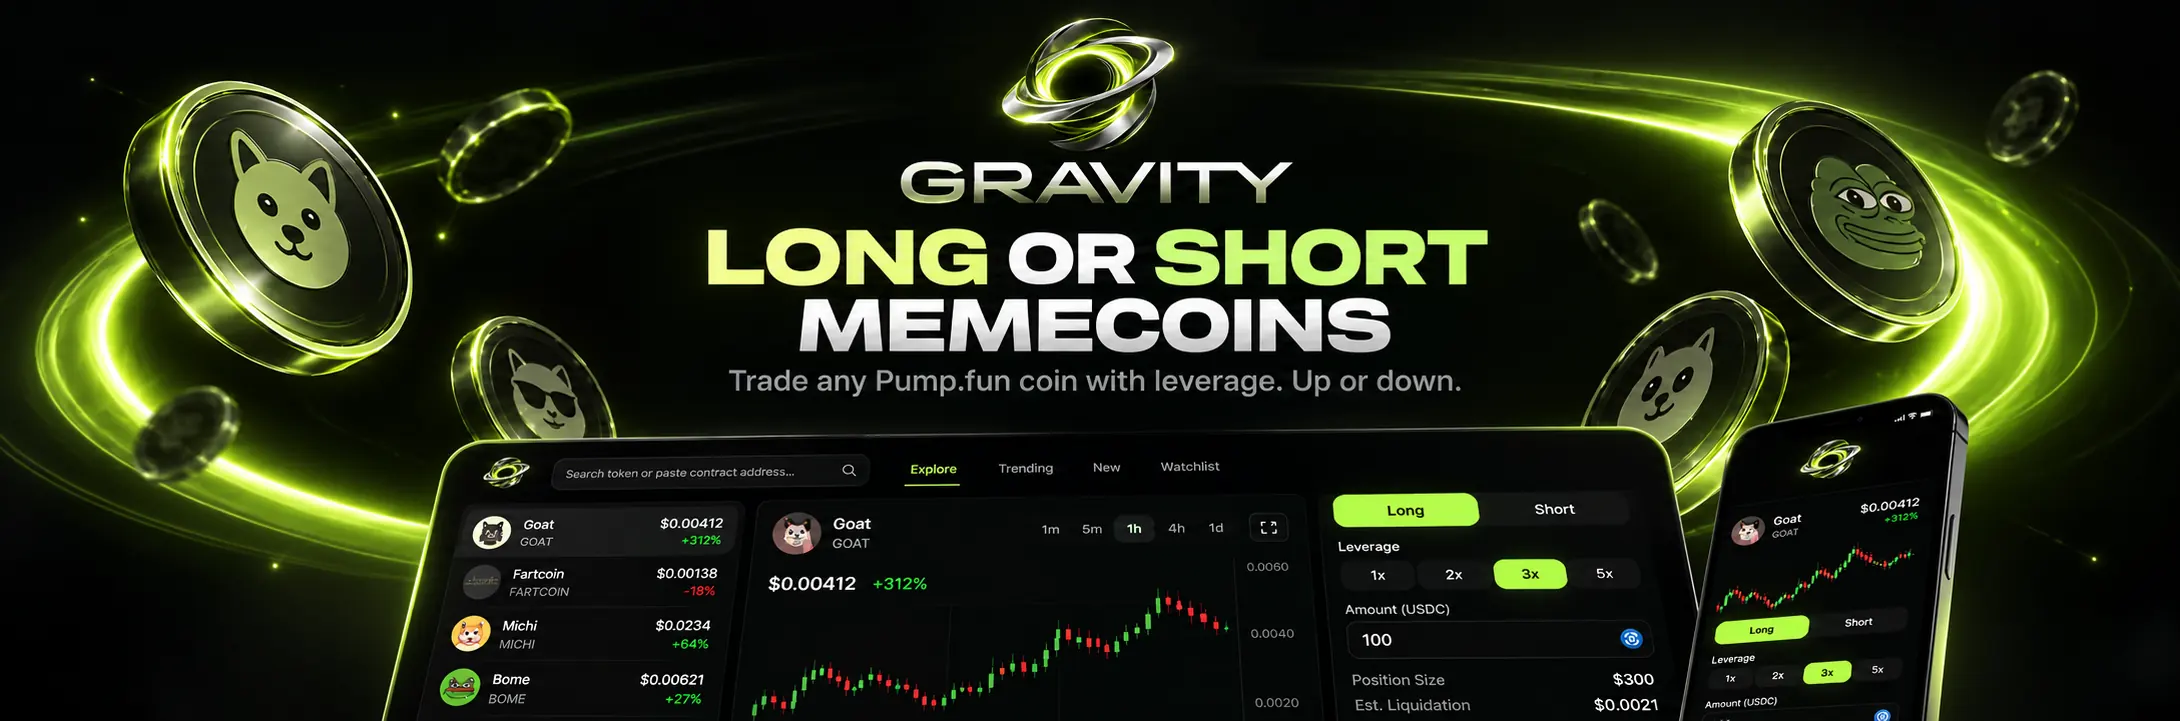
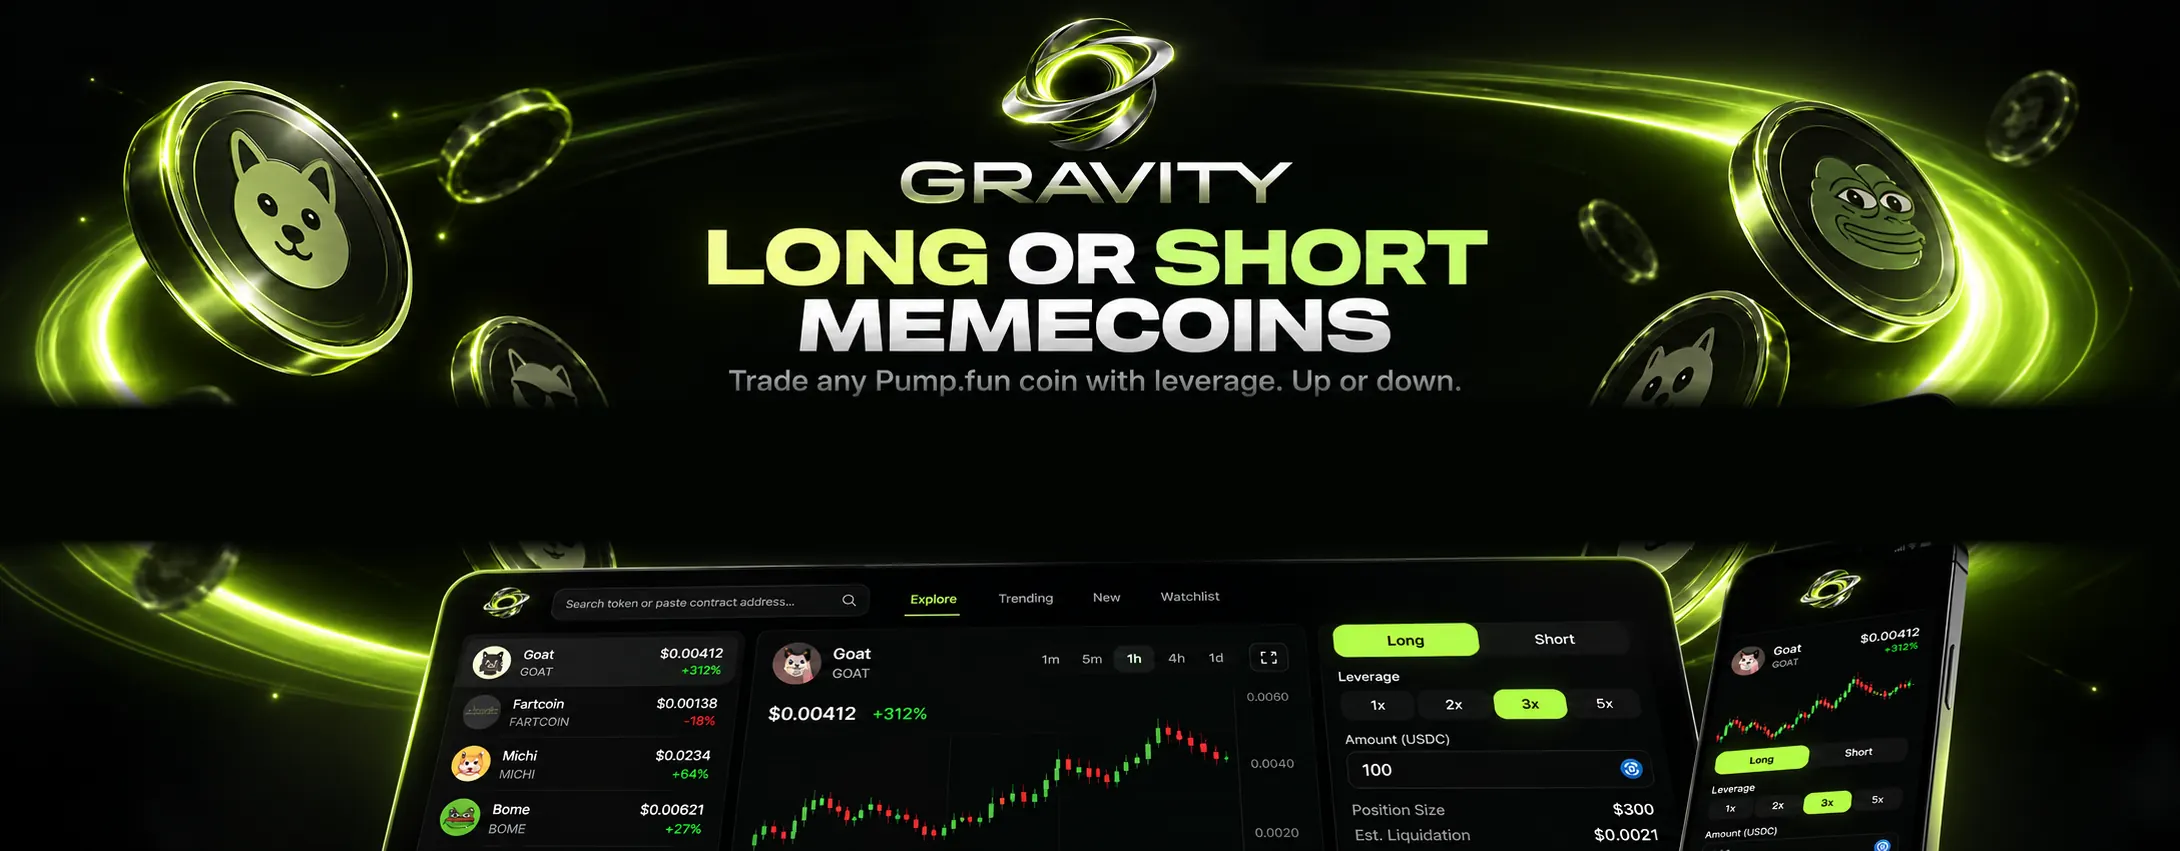
Refine hero composition with dedicated space for functional CTAs

diff --git a/app/globals.css b/app/globals.css
@@ -167,10 +167,10 @@
 /* Cinematic Gravity hero — image-based artwork and accessible HTML CTA links. */
 .cinematic-hero{position:relative;width:100%;margin:0 auto;padding:12px 0 24px;background:#030504;text-align:center;isolation:isolate}
 .cinematic-accessible-title{position:absolute!important;width:1px!important;height:1px!important;overflow:hidden!important;clip:rect(0,0,0,0)!important;white-space:nowrap!important}
-.cinematic-artwork{position:relative;width:100%;max-width:2180px;margin-inline:auto;overflow:hidden;aspect-ratio:2180/721;background:#030504}
+.cinematic-artwork{position:relative;width:100%;max-width:2180px;margin-inline:auto;overflow:hidden;aspect-ratio:2180/851;background:#030504}
 .cinematic-artwork>img{display:block;object-fit:cover;width:100%;height:100%;border:0}
 .cinematic-artwork::after{content:"";position:absolute;inset:auto 0 0;height:8%;background:linear-gradient(to bottom,transparent,#030504);pointer-events:none;z-index:1}
-.cinematic-actions{position:absolute;z-index:2;left:50%;top:54.5%;transform:translate(-50%,-50%);display:flex;align-items:center;justify-content:center;gap:20px;padding:14px 22px;border-radius:99px;background:rgba(1,5,3,.86);box-shadow:0 5px 45px 18px rgba(1,5,3,.85);white-space:nowrap}
+.cinematic-actions{position:absolute;z-index:2;left:50%;top:55.7%;transform:translate(-50%,-50%);display:flex;align-items:center;justify-content:center;gap:20px;padding:14px 22px;border-radius:99px;background:rgba(1,5,3,.86);box-shadow:0 5px 45px 18px rgba(1,5,3,.85);white-space:nowrap}
 .cinematic-actions .pill{min-height:54px;min-width:207px;font-size:16px;font-weight:750;padding-inline:24px}
 .cinematic-hero-disclaimer{max-width:900px;margin:2px auto 0;padding:8px 20px;color:#9fac9a;font-size:14px;line-height:1.6}
 .cinematic-mobile-copy{display:none}
@@ -187,7 +187,7 @@
  .cinematic-mobile-copy p{font-size:17px;line-height:1.6;max-width:470px;margin:0 auto;color:#b8c6b6}
  .cinematic-mobile-actions{display:flex;align-items:center;justify-content:center;flex-wrap:wrap;gap:10px;margin-top:27px}
  .cinematic-mobile-actions .pill{font-size:15px;min-height:52px;padding:0 19px}
- .cinematic-artwork{width:100%;aspect-ratio:auto;height:335px;background-image:url('/gravity-cinematic-hero.webp');background-repeat:no-repeat;background-size:auto 510px;background-position:50% -175px;overflow:hidden}
+ .cinematic-artwork{width:100%;aspect-ratio:auto;height:335px;background-image:url('/gravity-cinematic-hero.webp');background-repeat:no-repeat;background-size:auto 700px;background-position:50% -375px;overflow:hidden}
  .cinematic-artwork>img,.cinematic-actions{display:none}
  .cinematic-artwork::after{height:27%}
  .cinematic-hero-disclaimer{margin-top:0;text-align:center;font-size:13px;padding:0 22px 8px}
@@ -196,5 +196,5 @@
  .cinematic-mobile-copy{padding-inline:16px}
  .cinematic-mobile-copy h2{font-size:clamp(37px,10vw,50px)}
  .cinematic-mobile-actions .pill{min-width:0;flex:1;padding:0 12px}
- .cinematic-artwork{height:285px;background-size:auto 445px;background-position:50% -160px}
+ .cinematic-artwork{height:285px;background-size:auto 620px;background-position:50% -345px}
 }

diff --git a/app/page.tsx b/app/page.tsx
@@ -27,7 +27,7 @@ export default function Home(){
       </div>
     </div>
     <div className="cinematic-artwork">
-      <img src="/gravity-cinematic-hero.webp" alt="Gravity concept art featuring glowing memecoin orbits, long or short messaging, and illustrated desktop and mobile trading interfaces" width="2180" height="721" fetchPriority="high" />
+      <img src="/gravity-cinematic-hero.webp" alt="Gravity concept art featuring glowing memecoin orbits, long or short messaging, and illustrated desktop and mobile trading interfaces" width="2180" height="851" fetchPriority="high" />
       <div className="cinematic-actions" aria-label="Start using Gravity">
         <Link href="/app" className="pill pill-accent">Explore tokens</Link>
         <a href="#product" className="pill pill-outline">How it works</a>
